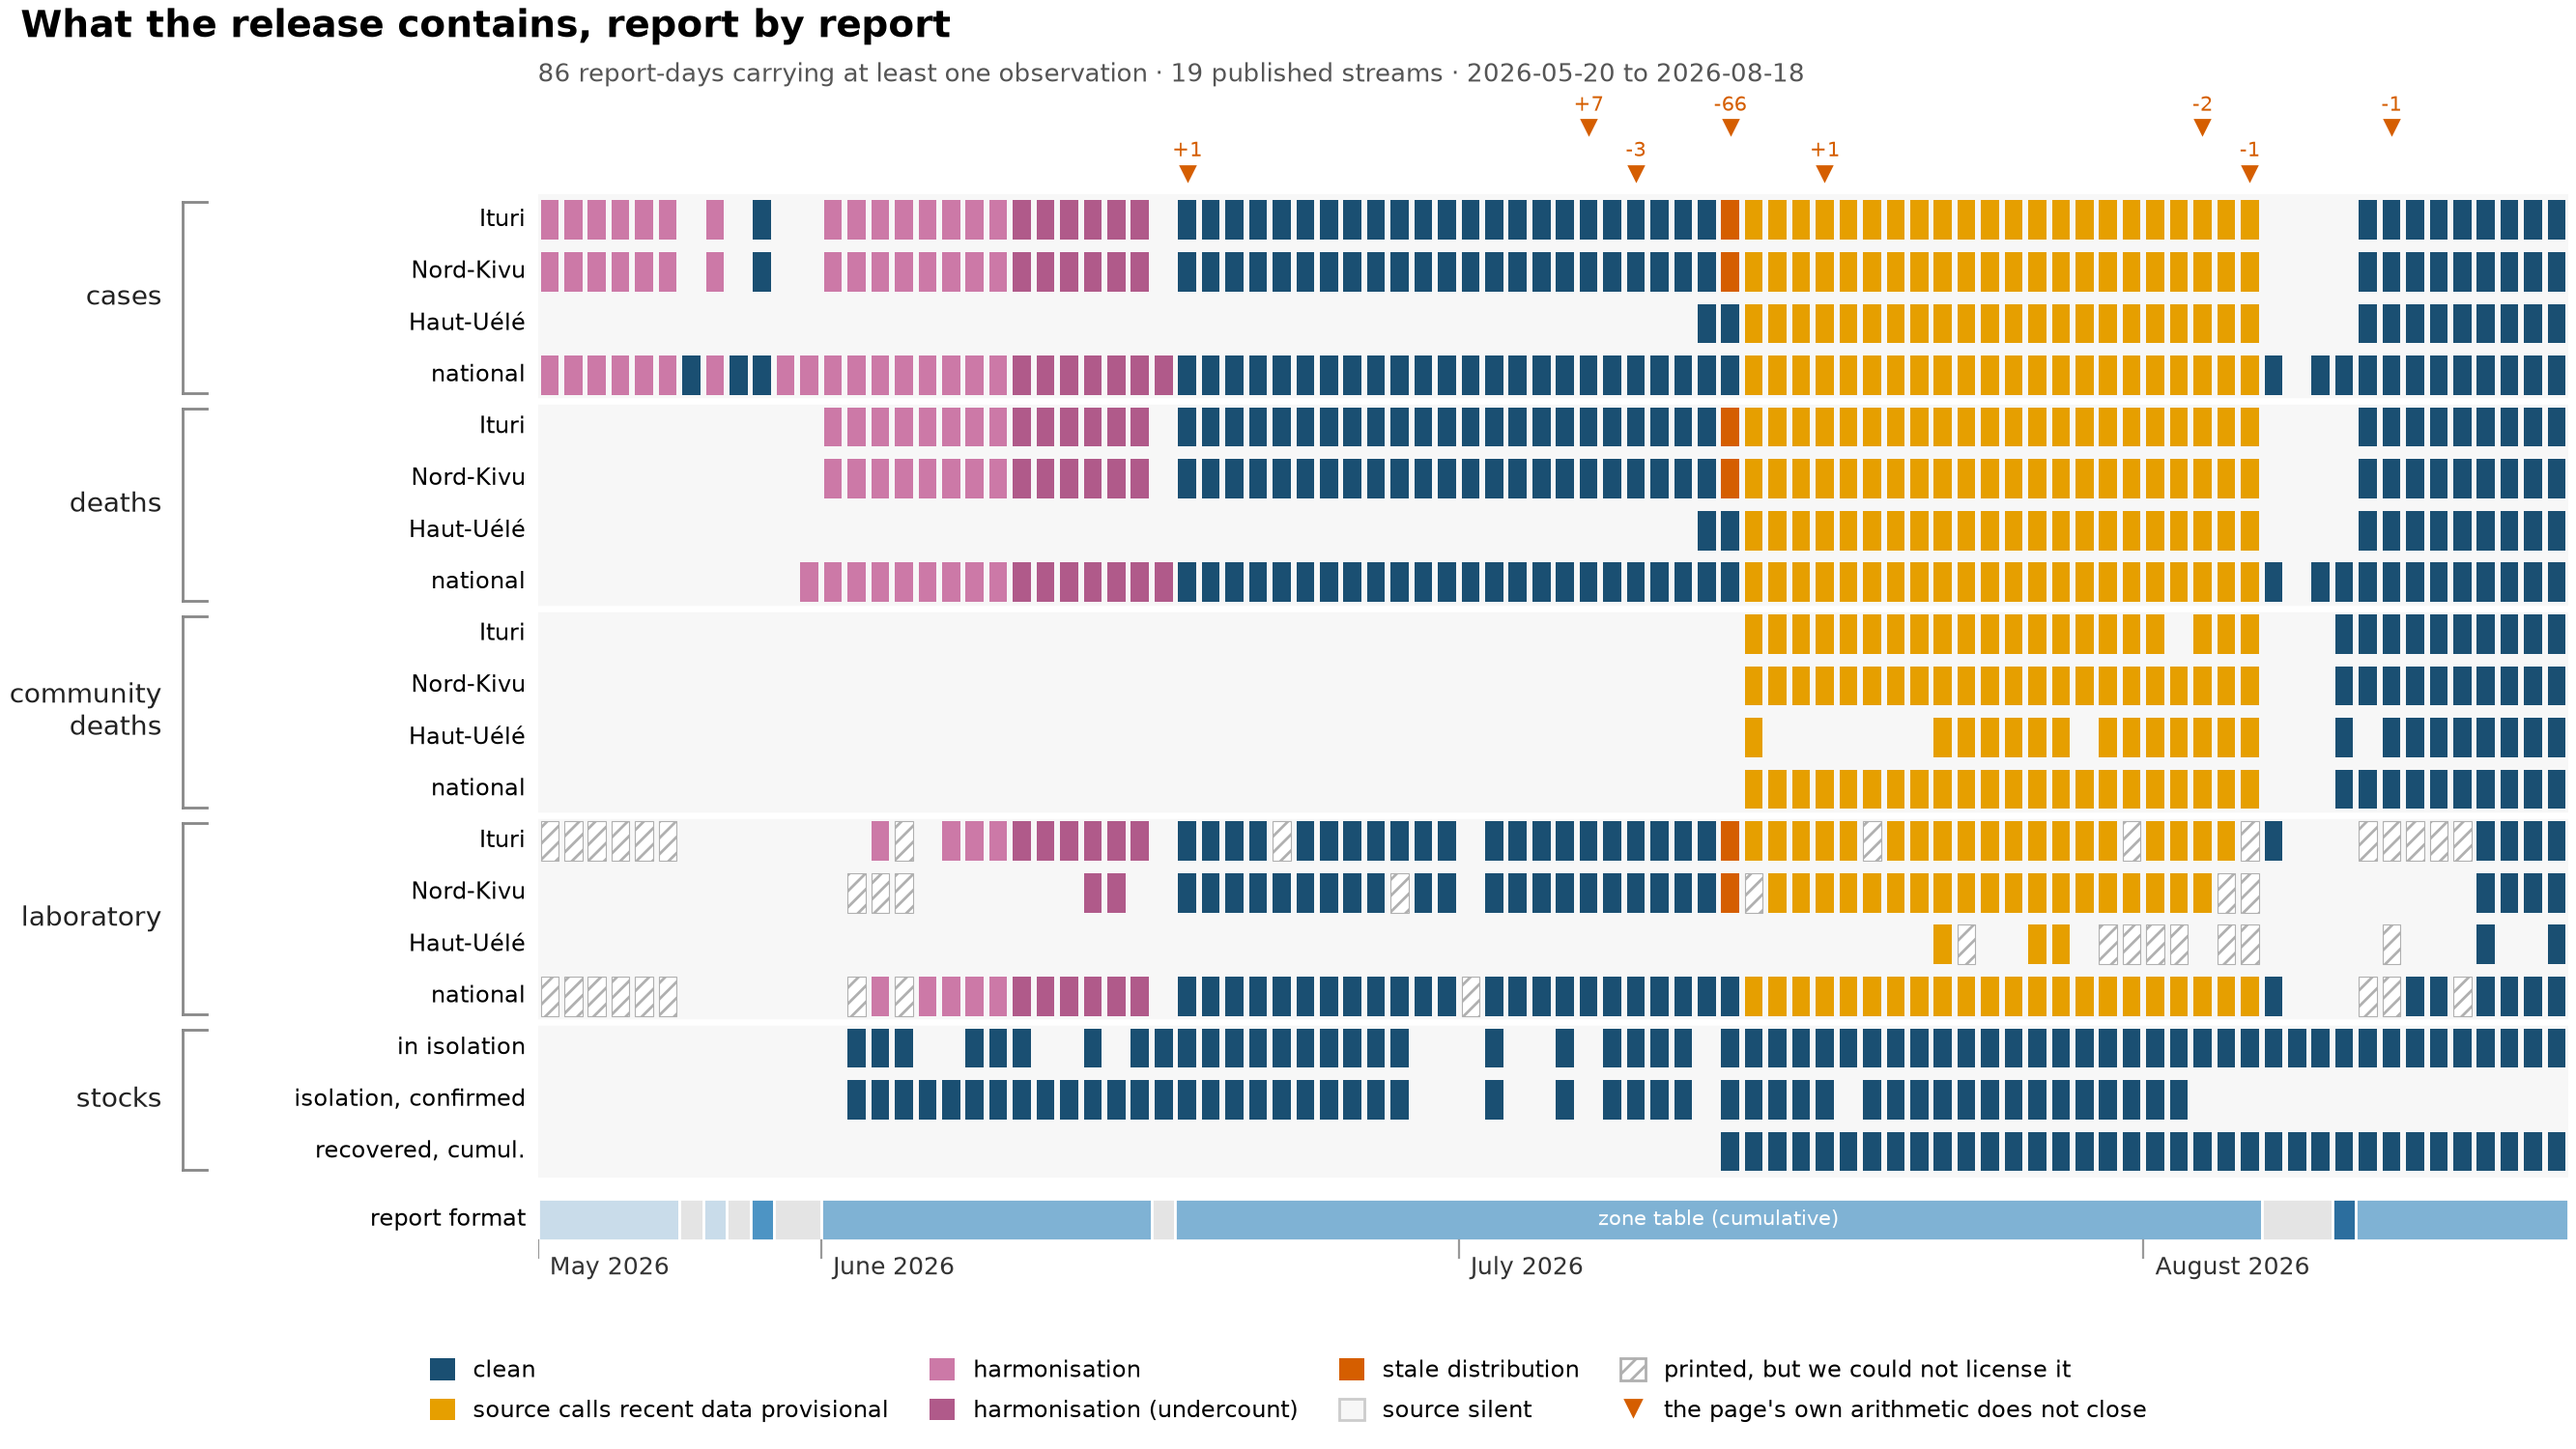
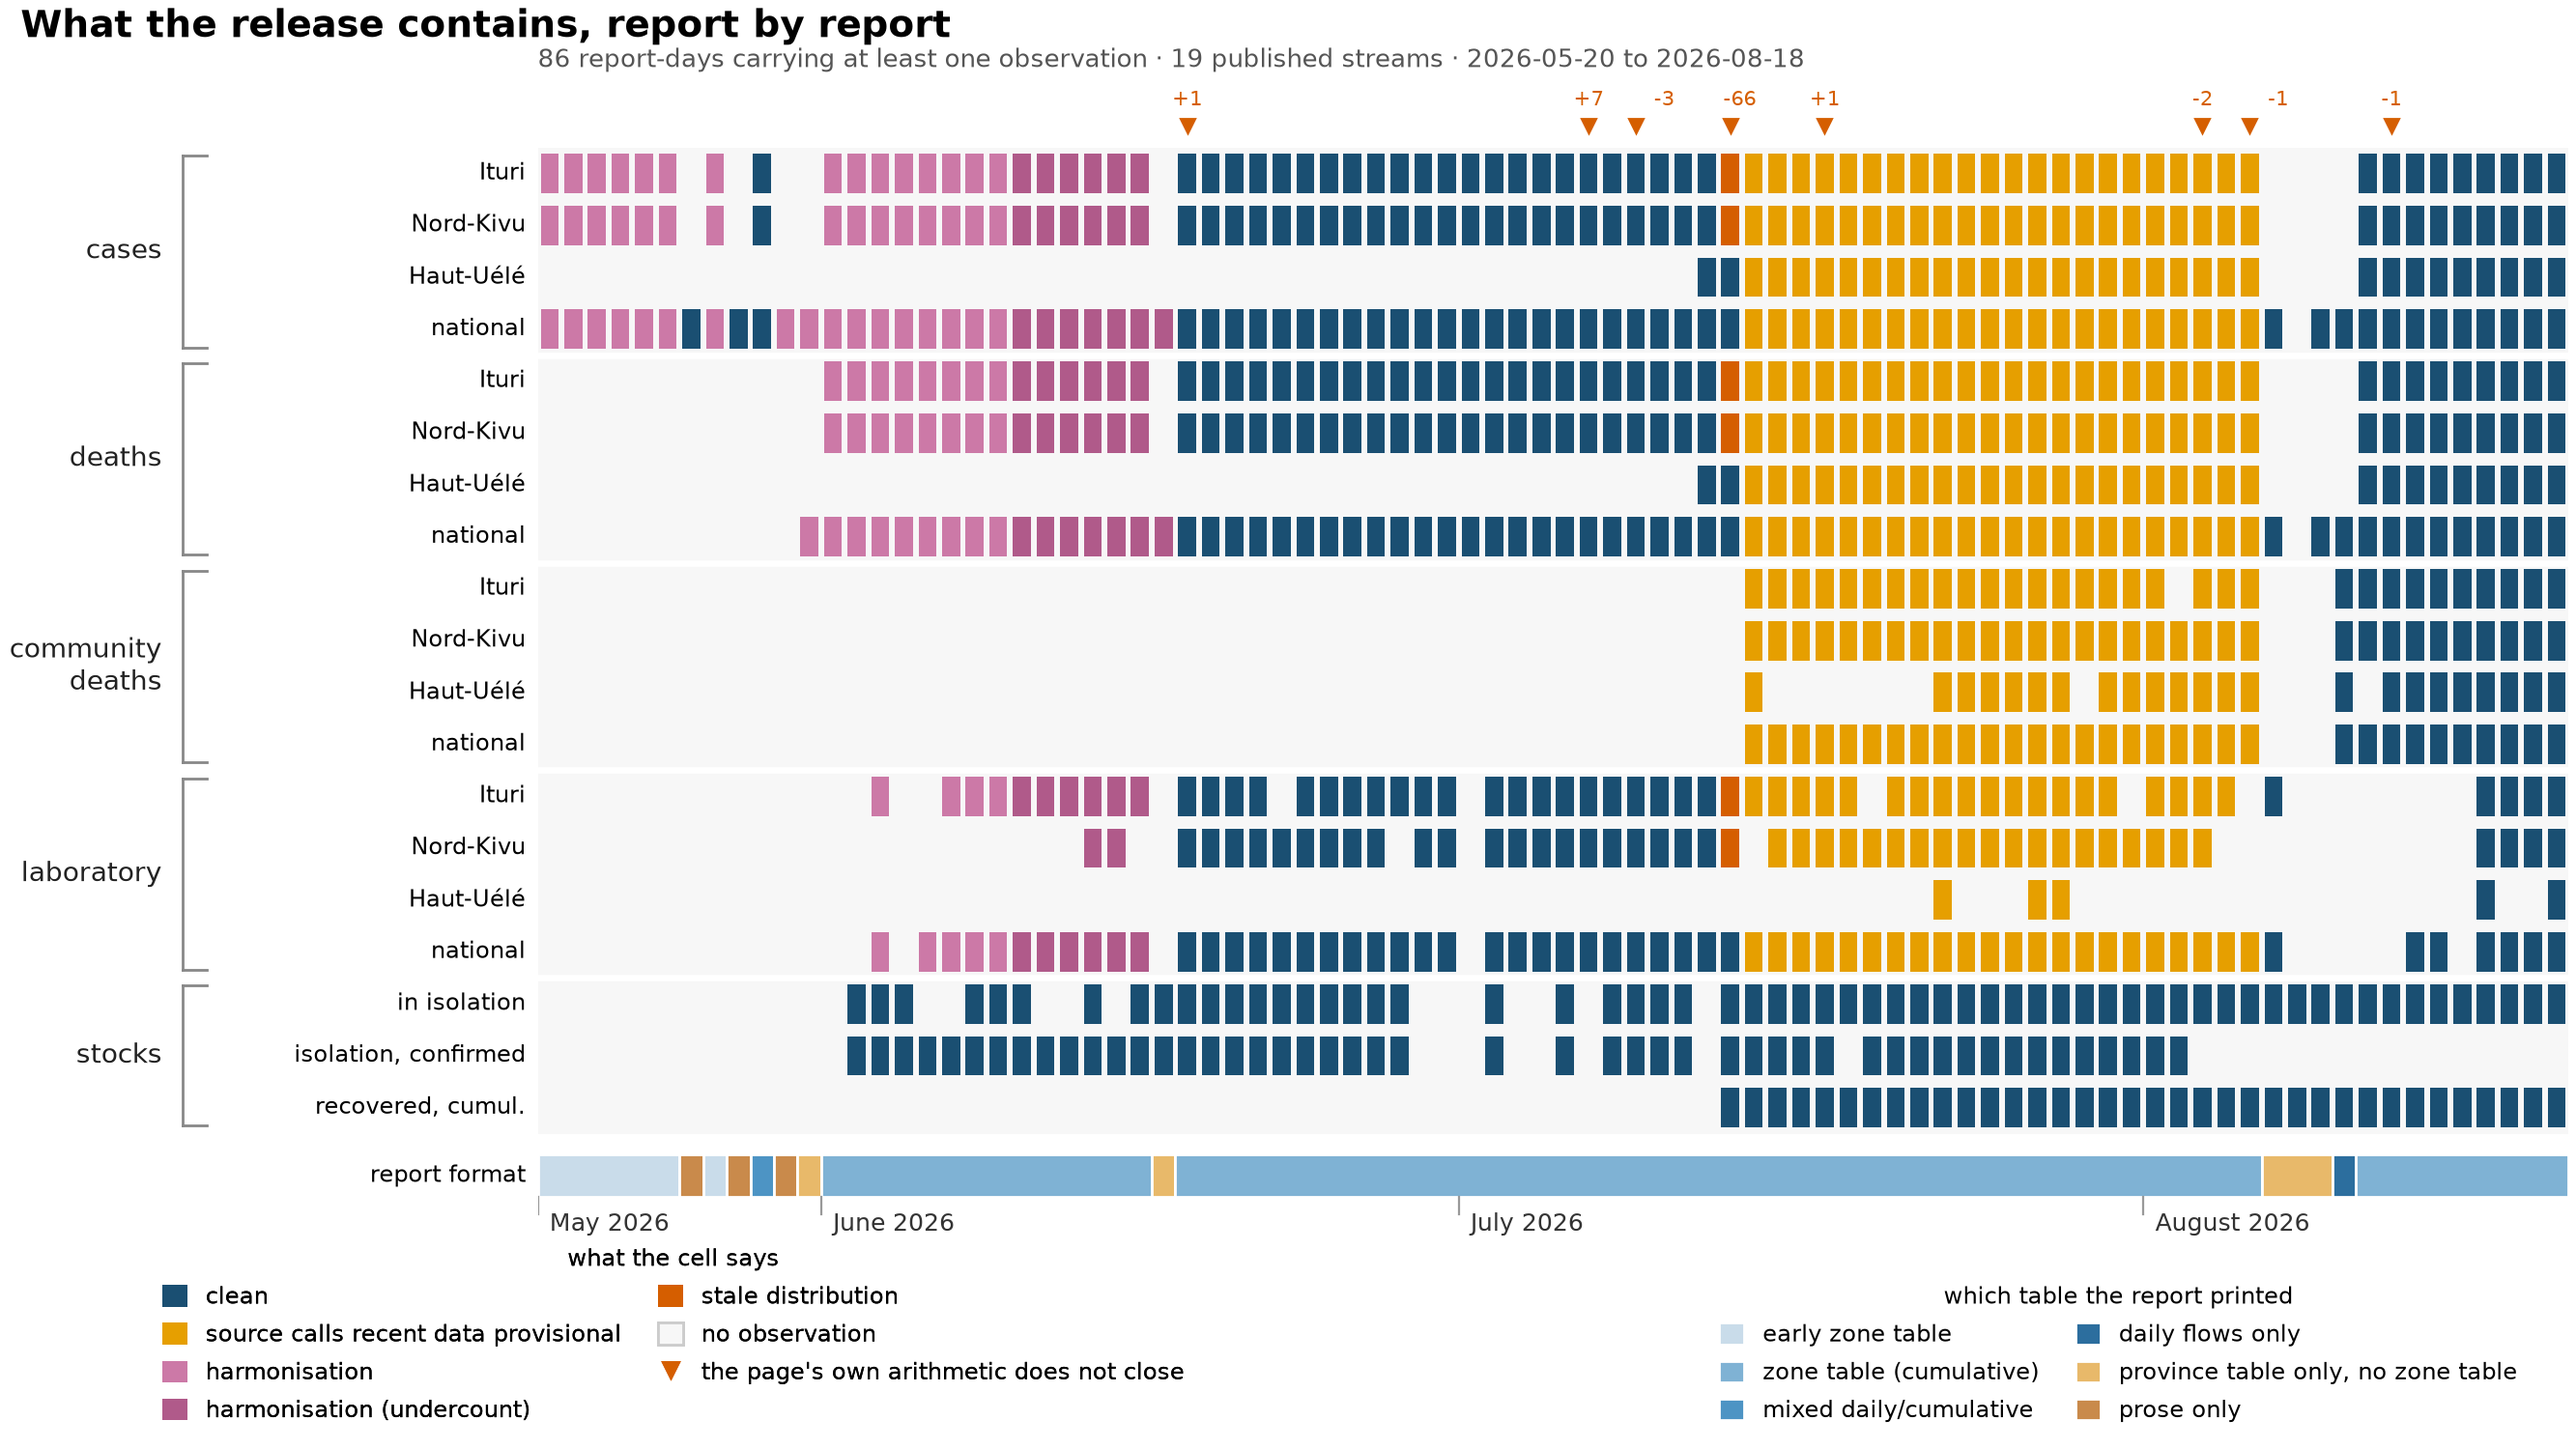
release_grid: every format stretch is a named route; markers on one row
Reverts the hatched-cell experiment.

The real defect was in the format band. It only ever resolved the
health-zone-table route, so a report that printed no zone table fell through
to an unlabelled grey -- which read as a hole in the record when it is a
change of route. Sitreps 084-086 (6-8 Aug) dropped the zone table but kept
the provincial summary; the late-May reports carried prose only. Both still
yield observations, which is why the rows above were populated over a grey
band.

Every day now resolves to a named route, in the order the extractor tries
them, and the routes get their own legend -- the format band is a different
encoding from the cell colour and must not read as one scale.

Event markers sit on a single row; where two dates are close enough that
their labels would touch, the label is nudged sideways rather than the marker
moved, so the row of triangles stays a clean reference line.

Claude-Session: https://claude.ai/code/session_015tkmBJ2UNKTmshByKopqW2

diff --git a/scripts/plot_figures.py b/scripts/plot_figures.py
@@ -225,6 +225,9 @@ ROUTE_LABEL = {
     "zone_cumulative": "zone table (cumulative)",
     "zone_mixed": "mixed daily/cumulative",
     "zone_daily": "daily flows only",
+    "summary_only": "province table only, no zone table",
+    "prose": "prose only",
+    "none": "no route",
 }
 
 
@@ -271,21 +274,6 @@ def draw_release_grid(inputs: dict[str, Path], out: Path) -> None:
         2, 1, figsize=(13.333, 7.5), height_ratios=[ny, 2.4],
         constrained_layout=True)
 
-    # Which report-days each stream REFUSED, as opposed to never saw. Only
-    # the routes that keep a refusal channel can answer this; the rest map to
-    # an empty set and their holes stay plain.
-    lab_status = pl.read_csv(inputs["lab_status"], infer_schema_length=None)
-    refusals: dict[str, set[str]] = {}
-    for slug, prov in (("ituri", "Ituri"), ("nord_kivu", "Nord-Kivu"),
-                       ("haut_uele", "Haut-Uélé")):
-        refusals[f"lab_daily_{slug}"] = {
-            r["date"] for r in lab_status.iter_rows(named=True)
-            if prov in str(r["refused"] or "")}
-    refusals["lab_daily_national"] = {
-        r["date"] for r in lab_status.iter_rows(named=True)
-        if str(r["refused"] or "").strip()}
-    drew_refusal = [False]
-
     # --- the grid itself -------------------------------------------------
     ax.set_facecolor("#f7f7f7")            # the ground IS "no observation"
     seen_flags: set[str] = set()
@@ -301,19 +289,6 @@ def draw_release_grid(inputs: dict[str, Path], out: Path) -> None:
             ax.add_patch(plt.Rectangle(
                 (xi + 0.12, yi + 0.12), 0.76, 0.76,
                 facecolor=FLAG_COLOR[flag], edgecolor="none"))
-        # A HOLE IS NOT ALWAYS THE SOURCE'S. Where the page prints a figure we
-        # declined to license, the cell is hatched rather than blank: for
-        # Ituri's laboratory row that is 16 of 31 empty days, so leaving them
-        # the same grey as genuine silence would blame the source for half of
-        # our own gaps.
-        for d in refusals.get(key, set()):
-            xi = x.get(d)
-            if xi is None or d in {r["time"] for r in df.iter_rows(named=True)}:
-                continue
-            ax.add_patch(plt.Rectangle(
-                (xi + 0.12, yi + 0.12), 0.76, 0.76, facecolor="#ffffff",
-                edgecolor="#b0b0b0", linewidth=0.4, hatch="////"))
-            drew_refusal[0] = True
         ax.text(-0.006, yi + 0.5, label, transform=ax.get_yaxis_transform(),
                 ha="right", va="center", fontsize=8.5)
 
@@ -354,26 +329,49 @@ def draw_release_grid(inputs: dict[str, Path], out: Path) -> None:
     # The marker says a day's arithmetic does not close; the number says by
     # how much, because "does not close" covers both a single miscounted case
     # and the 66 Ituri cases of 12 July. Where a date carries several
-    # residuals the largest is shown, so it bounds the rest. Heights
-    # alternate so dates two report-days apart do not collide.
+    # residuals the largest is shown, so it bounds the rest. All markers sit
+    # on ONE row; where two dates are close enough that their labels would
+    # touch, the label is nudged sideways rather than the marker moved, so
+    # the row of triangles stays a clean reference line.
     worst: dict[str, int] = {}
     for r in exc.iter_rows(named=True):
         d, g = r["date"], int(r["expected_gap"])
         if abs(g) > abs(worst.get(d, 0)):
             worst[d] = g
-    for i, d in enumerate(sorted(k for k in worst if k in x)):
-        hi = ny + (0.42 if i % 2 == 0 else 1.30)
-        ax.plot([x[d] + 0.5], [hi], marker="v", markersize=5,
+    hi = ny + 0.42
+    ordered = sorted(k for k in worst if k in x)
+    MIN_SEP = 3.2          # columns needed before two labels touch
+    prev_label_x = -1e9
+    for d in ordered:
+        cx = x[d] + 0.5
+        ax.plot([cx], [hi], marker="v", markersize=5,
                 color="#D55E00", clip_on=False)
-        ax.text(x[d] + 0.5, hi + 0.22, f"{worst[d]:+d}", ha="center",
-                va="bottom", fontsize=7.5, color="#D55E00", clip_on=False)
+        lx = cx if cx - prev_label_x >= MIN_SEP else prev_label_x + MIN_SEP
+        prev_label_x = lx
+        ax.text(lx, hi + 0.30, f"{worst[d]:+d}", ha="center", va="bottom",
+                fontsize=7.5, color="#D55E00", clip_on=False)
 
     # --- format eras, from the route each report was read through --------
     # A report with no zone table is not a gap in the format record: it IS a
     # format, and one worth seeing, so it gets its own band rather than
     # breaking the span either side of it into two.
-    route = {d: (r or "none") for d, r in
-             zone.select("date", "table").unique().iter_rows()}
+    # A report with no health-zone table still HAS a format and still yields
+    # observations -- sitreps 084-086 (6-8 Aug) dropped the zone table but
+    # kept the provincial summary, and the late-May reports carried only
+    # prose. Showing those as an unlabelled grey made the band look like a
+    # gap in the record when it is a change of route, which is exactly the
+    # thing this band exists to show. Every day therefore resolves to a named
+    # route, in the order the extractor tries them.
+    summary = pl.read_csv(inputs["summary"], infer_schema_length=None)
+    prose = pl.read_csv(inputs["prose"], infer_schema_length=None)
+    summary_dates = set(summary["date"].to_list())
+    prose_dates = set(prose["date"].to_list())
+    route = {d: r for d, r in zone.select("date", "table").unique().iter_rows()}
+    for d in all_dates:
+        if route.get(d):
+            continue
+        route[d] = ("summary_only" if d in summary_dates
+                    else "prose" if d in prose_dates else "none")
     era.set_xlim(0, nx)
     era.set_ylim(0, 1)
     spans, start, cur = [], 0, route.get(all_dates[0], "none")
@@ -386,6 +384,7 @@ def draw_release_grid(inputs: dict[str, Path], out: Path) -> None:
 
     era_fill = {"zone_early": "#c9dcea", "zone_cumulative": "#7fb2d4",
                 "zone_mixed": "#4d94c4", "zone_daily": "#2c6e9e",
+                "summary_only": "#E8B96A", "prose": "#C98A4B",
                 "none": "#e4e4e4"}
     widest: dict[str, tuple[int, int]] = {}
     for a, b, r in spans:
@@ -398,11 +397,6 @@ def draw_release_grid(inputs: dict[str, Path], out: Path) -> None:
         lab = ROUTE_LABEL.get(r, "no zone table")
         # only the widest run of each route is labelled: a format that resumes
         # after an interruption is the same format, not a new one
-        if (a, b) == widest.get(r) and b - a >= max(6, len(lab) * 0.40):
-            era.text((a + b) / 2, 0.79, lab, ha="center", va="center",
-                     fontsize=7.5,
-                     color="white" if r in ("zone_mixed", "zone_daily",
-                                            "zone_cumulative") else "#20415c")
     era.text(-0.006, 0.79, "report format", transform=era.get_yaxis_transform(),
              ha="right", va="center", fontsize=8.5)
 
@@ -425,11 +419,7 @@ def draw_release_grid(inputs: dict[str, Path], out: Path) -> None:
                              label=FLAG_LABEL[f])
                for f in FLAG_COLOR if f in seen_flags]
     handles.append(plt.Rectangle((0, 0), 1, 1, facecolor="#f7f7f7",
-                                 edgecolor="#cccccc", label="source silent"))
-    if drew_refusal[0]:
-        handles.append(plt.Rectangle((0, 0), 1, 1, facecolor="#ffffff",
-                                     edgecolor="#b0b0b0", hatch="////",
-                                     label="printed, but we could not license it"))
+                                 edgecolor="#cccccc", label="no observation"))
     handles.append(plt.Line2D([], [], linestyle="none", marker="v",
                               color="#D55E00", markersize=6,
                               label="the page's own arithmetic does not close"))
@@ -437,17 +427,39 @@ def draw_release_grid(inputs: dict[str, Path], out: Path) -> None:
     # constrained_layout does not reserve space for a figure legend, so the
     # band is carved out of the layout rect explicitly or the second row
     # falls off the page.
-    fig.get_layout_engine().set(rect=(0, 0.085, 1, 0.915))
-    fig.legend(handles=handles, loc="lower center", ncol=4,
-               frameon=False, fontsize=8.5, handlelength=1.1,
-               handleheight=1.1, columnspacing=1.8, labelspacing=0.7,
-               bbox_to_anchor=(0.5, 0.004))
+    fig.get_layout_engine().set(rect=(0, 0.115, 1, 0.895))
+    leg1 = fig.legend(handles=handles, loc="lower left", ncol=2,
+                      frameon=False, fontsize=8.5, handlelength=1.1,
+                      handleheight=1.1, columnspacing=1.6, labelspacing=0.6,
+                      bbox_to_anchor=(0.055, 0.004),
+                      title="what the cell says")
+    leg1.get_title().set_fontsize(8.5)
+    leg1.get_title().set_ha("left")
+
+    # The format band is a SECOND encoding -- which table the report printed,
+    # not what the observation is like -- so it gets its own key. Every route
+    # that occurs is listed, which is why no stretch of the band is an
+    # unexplained grey: a report with no zone table still has a format.
+    order = ["zone_early", "zone_cumulative", "zone_mixed", "zone_daily",
+             "summary_only", "prose", "none"]
+    seen_routes = {r for _, _, r in spans}
+    rhandles = [plt.Rectangle((0, 0), 1, 1, facecolor=era_fill[r],
+                              edgecolor="#ffffff",
+                              label=ROUTE_LABEL.get(r, r))
+                for r in order if r in seen_routes]
+    leg2 = fig.legend(handles=rhandles, loc="lower right", ncol=2,
+                      frameon=False, fontsize=8.5, handlelength=1.1,
+                      handleheight=1.1, columnspacing=1.6, labelspacing=0.6,
+                      bbox_to_anchor=(0.985, 0.004),
+                      title="which table the report printed")
+    leg2.get_title().set_fontsize(8.5)
+    fig.add_artist(leg1)
 
     fig.suptitle("What the release contains, report by report",
                  x=0.008, ha="left", fontsize=14, fontweight="bold")
     ax.set_title(f"{nx} report-days carrying at least one observation · "
                  f"{ny} published streams · {all_dates[0]} to {all_dates[-1]}",
-                 loc="left", fontsize=9.5, color="#555555", pad=42)
+                 loc="left", fontsize=9.5, color="#555555", pad=30)
     out.parent.mkdir(parents=True, exist_ok=True)
     fig.savefig(out, dpi=200)
     plt.close(fig)
@@ -887,7 +899,8 @@ FIGURES = {
                          for n, _ in RELEASE_ROWS},
                       "zone_table": "data/build/series/zone_table.csv",
                       "exceptions": "registers/reconciliation_exceptions.tsv",
-                      "lab_status": "data/build/series/lab_prose_status.csv"}),
+                      "summary": "data/build/series/province_summary.csv",
+                      "prose": "data/build/series/prose_provinces.csv"}),
     "residuals": (draw_residuals,
                   {"province_series": "data/build/series/province_series.csv"}),
     "streams_detail": (draw_streams_detail,
